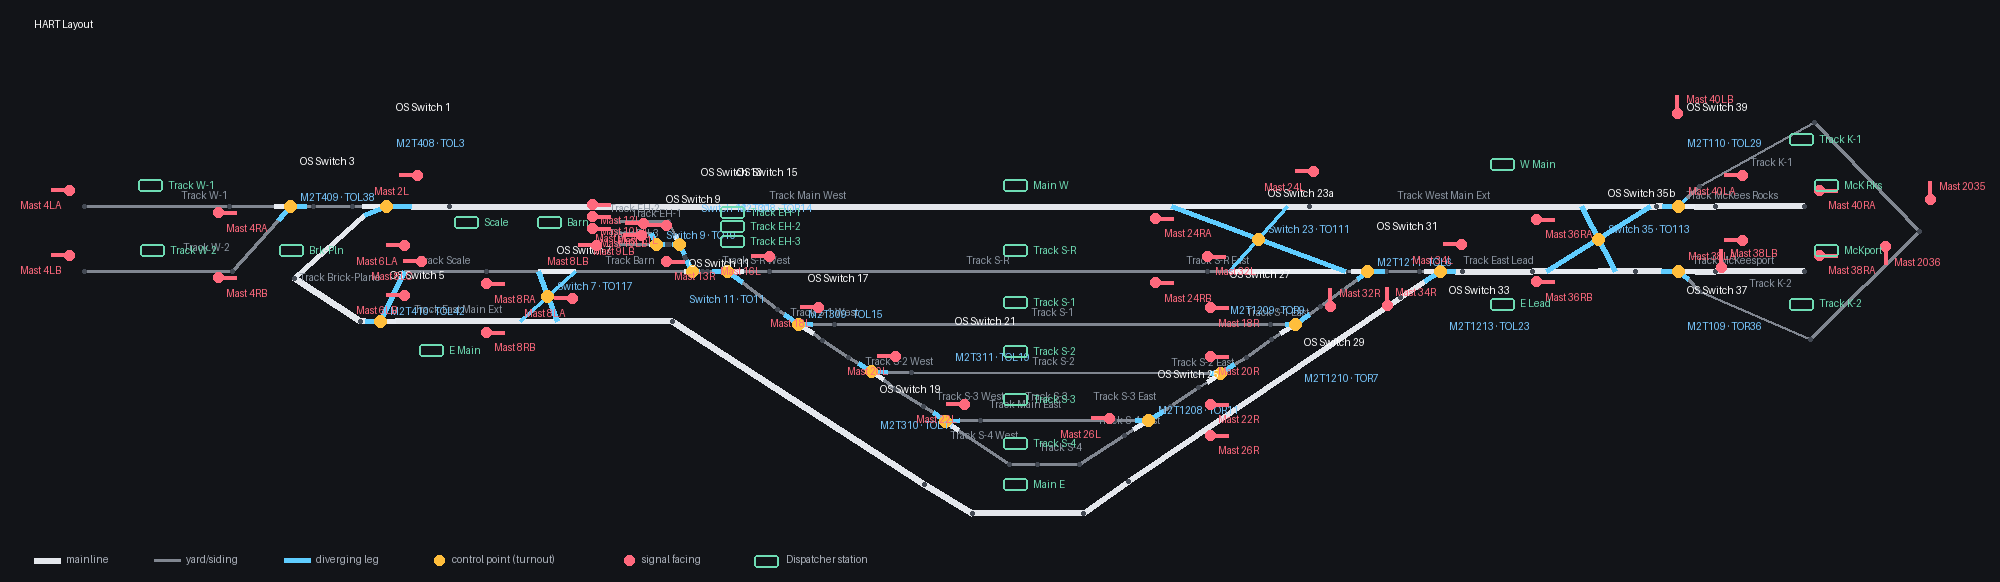
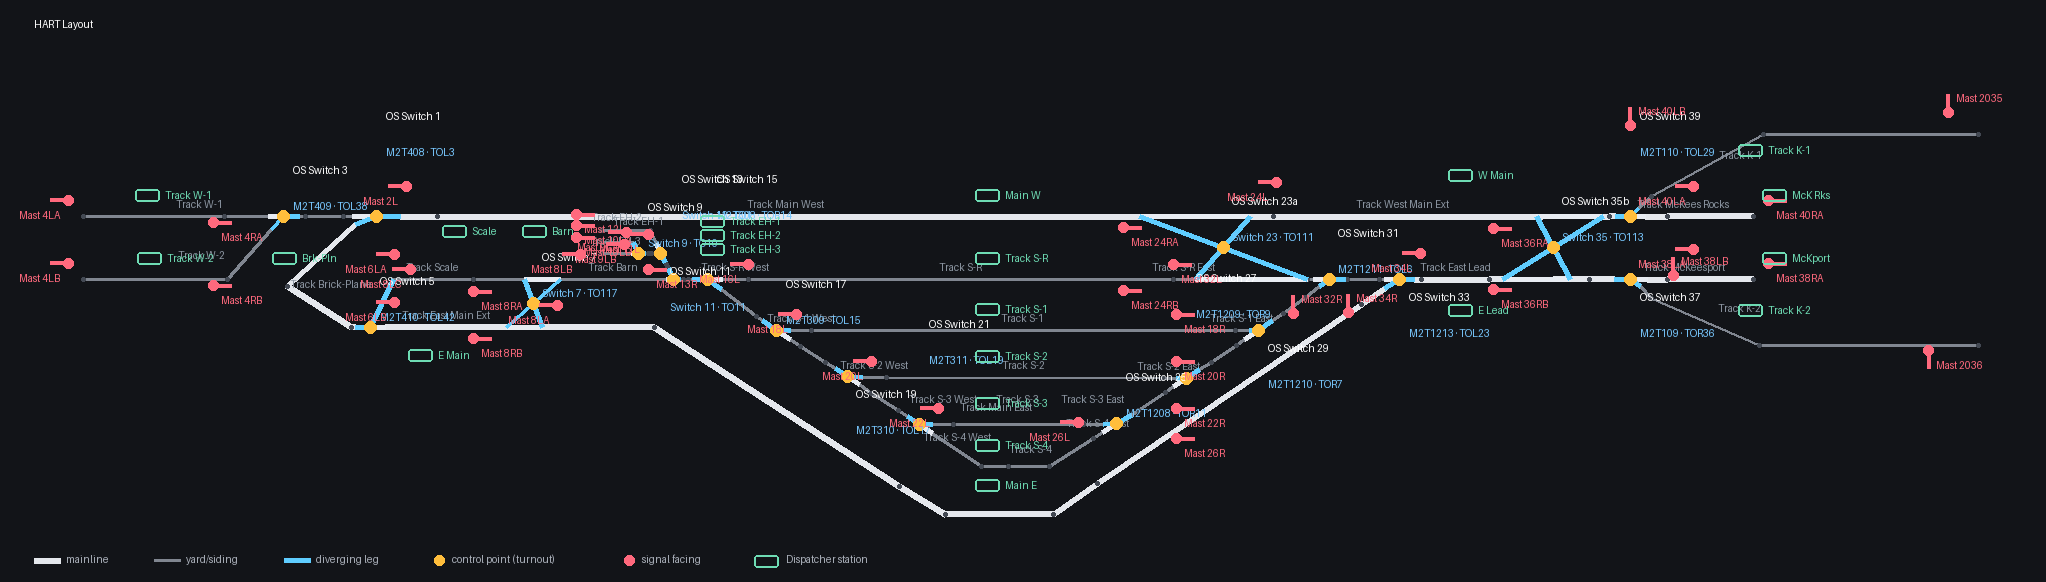
Redraw the Princess K tracks as rows running east with a hidden virtual wrap, so the panel shows the mains in the centre and the K-1/K-2 spurs leaving on the turnout hands as built instead of a drawn loop.
The schematic renderer now skips hidden track and the anchors only hidden track reaches.

diff --git a/jmri/layouts/hart/scripts/tests/test_render_le_layout.py b/jmri/layouts/hart/scripts/tests/test_render_le_layout.py
@@ -1,0 +1,35 @@
+"""render_le_layout.load_geometry skips hidden track segments."""
+import sys
+import tempfile
+import unittest
+from pathlib import Path
+
+sys.path.insert(0, str(Path(__file__).resolve().parents[1]))
+import render_le_layout  # noqa: E402
+
+PANEL = """<?xml version="1.0" encoding="UTF-8"?>
+<layout-config>
+  <LayoutEditor name="HART Railroad" class="jmri.jmrit.display.layoutEditor.configurexml.LayoutEditorXml">
+    <positionablepoint ident="A1" type="ANCHOR" x="0.0" y="0.0" />
+    <positionablepoint ident="A2" type="ANCHOR" x="10.0" y="0.0" />
+    <positionablepoint ident="A3" type="ANCHOR" x="10.0" y="10.0" />
+    <tracksegment ident="F1" blockname="Track K-1" connect1name="A1" type1="POS_POINT" connect2name="A2" type2="POS_POINT" mainline="no" hidden="no" />
+    <tracksegment ident="F2" blockname="Track K-1" connect1name="A2" type1="POS_POINT" connect2name="A3" type2="POS_POINT" mainline="no" hidden="yes" />
+  </LayoutEditor>
+</layout-config>
+"""
+
+
+class HiddenSegments(unittest.TestCase):
+    def test_hidden_segment_is_not_drawn(self):
+        with tempfile.TemporaryDirectory() as d:
+            src = Path(d) / "panel.xml"
+            src.write_text(PANEL)
+            pp, _legs, _turnouts, segs, _signals, _stations = render_le_layout.load_geometry(src)
+        self.assertEqual([(a, b) for a, b, _m, _blk in segs], [((0.0, 0.0), (10.0, 0.0))])
+        # the anchor only the hidden segment reaches is not drawn either
+        self.assertEqual(sorted(pp), ["A1", "A2"])
+
+
+if __name__ == "__main__":
+    unittest.main()

diff --git a/jmri/layouts/hart/scripts/render_le_layout.py b/jmri/layouts/hart/scripts/render_le_layout.py
@@ -101,10 +101,15 @@ def load_geometry(src: Path):
 
     segs = []
     for s in le.findall("tracksegment"):
+        if s.get("hidden") == "yes":
+            # Hidden track (the virtual K-1/K-2 wrap at Princess) is not drawn in PanelPro either.
+            continue
         a = resolve(s.get("connect1name"), s.get("type1"))
         b = resolve(s.get("connect2name"), s.get("type2"))
         if a and b:
             segs.append((a, b, s.get("mainline") == "yes", s.get("blockname") or ""))
+    drawn = {a for a, _b, _m, _blk in segs} | {b for _a, b, _m, _blk in segs}
+    pp = {k: v for k, v in pp.items() if v in drawn}
     signals = []
     for icon in le.findall("signalmasticon"):
         try:

diff --git a/wiki/decisions/ADR-017-princess-track-name-swap.md b/wiki/decisions/ADR-017-princess-track-name-swap.md
@@ -24,10 +24,12 @@ The helix is installed at the Princess (east) end. The former stubs east of Swit
 4. The mainline flag moved to Track McKees Rocks and Track McKeesport.
 5. Unchanged: mast numbers, switch numbers, bumpers EB71/EB72, the panel arrow labels `McKees Rocks, PA` and `McKeesport, PA`, Operations Pro and STS names, and the real interchange and town names.
 6. Role wording in the docs stays as it was. The old stubs are still stubs for now (the helix goes nowhere yet; they are only longer) and the K tracks are still a loop.
+7. Panel drawing (2026-11-07, second pass): the turnout hands stay as built, so K-1 leaves Switch 39 on the top row and K-2 leaves Switch 37 on the bottom row. Both run east to the panel edge (anchors `A82` / `A83` at x=1950) and wrap around each other **virtually**: segments `F56-S-0` and `F55-S-0` meet at `A48` (x=1950, y=276) and are `hidden="yes"`, so no loop is drawn. Masts 2035 / 2036 and their NX sensors still sit on `A48` and are drawn at the east ends of the two rows. The mainline stubs stay in the centre rows and end at masts 40RA / 38RA as before.
 
 ## Consequences
 
 - Dispatcher System sensors, sections, transits and the 500 traininfo files were renamed in place, so Stage 1 and Stage 2 did not have to be re-run.
 - `public_name_map.csv` identity rows and aliases follow the new names.
 - ADR-005's stub example (`Track K-1`) no longer holds; it now reads `Track W-1`.
-- The Shenango station map PNG still shows the old labels. It is extracted from the SM-05 car-card docx in `external/hart-ops` and needs a redraw there.
+- The Shenango station map was redrawn as SM-05 rev B (`ops/station_maps/scripts/render_shenango_station_map.py`).
+- The website schematic renderer (`render_le_layout.py`) skips hidden track, so the virtual wrap does not show on hartrailroad.com either.

diff --git a/wiki/DISPATCHER_LAYOUT_HOOPS.md b/wiki/DISPATCHER_LAYOUT_HOOPS.md
@@ -18,6 +18,7 @@ Icons are `hidden="yes"` on **HART Railroad**. System names are `IF$vsm:basic:on
 |---------|---------|----------------|
 | W-1 / W-2 | `Mast 4LA` / `Mast 4LB` | West-end bumpers `EB70` / `EB73` |
 | McKees Rocks / McKeesport | `Mast 40RA` / `Mast 38RA` | East-end bumpers `EB71` / `EB72` |
+| K-1 / K-2 boundary | `Mast 2035` / `Mast 2036` | Anchor `A48` (x=1950, y=276), reached only by the **hidden** wrap segments `F56-S-0` / `F55-S-0`; the loop is real track but is not drawn (ADR-017 item 7) |
 | EH-1…EH-3 | `Mast 12L` / `Mast 10LA` / `Mast 10LB` | Engine House buffers `EB1` / `EB2` / `EB3` |
 | S-1…S-4 west | `Mast 18L`, `20L`, `22L`, `26L` | Body/throat boundary anchors `A53`/`A46`/`A41`/`A15` |
 | S-1…S-4 east | `Mast 18R`, `20R`, `22R`, `26R` | Body/throat boundary anchors `A61`/`A36`/`A39`/`A12` |
